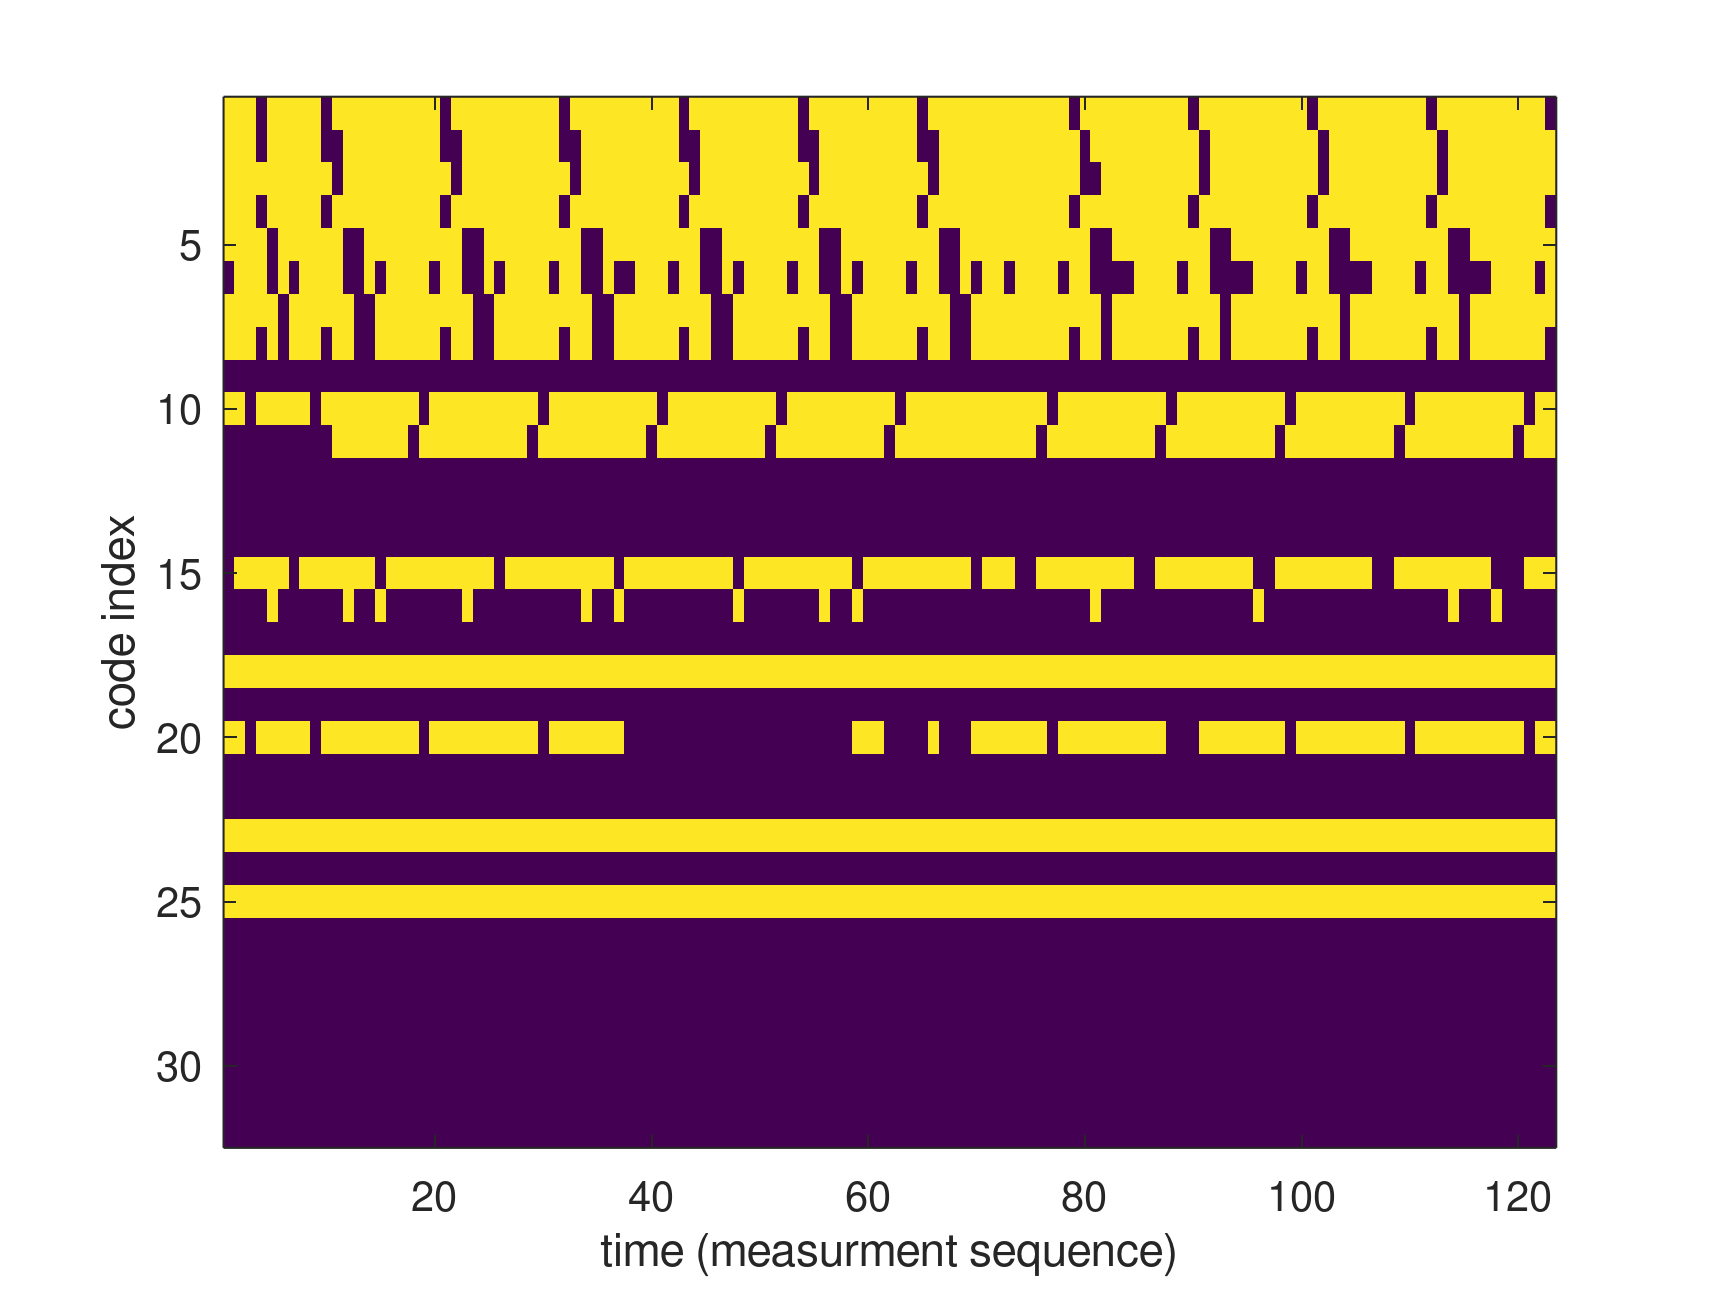
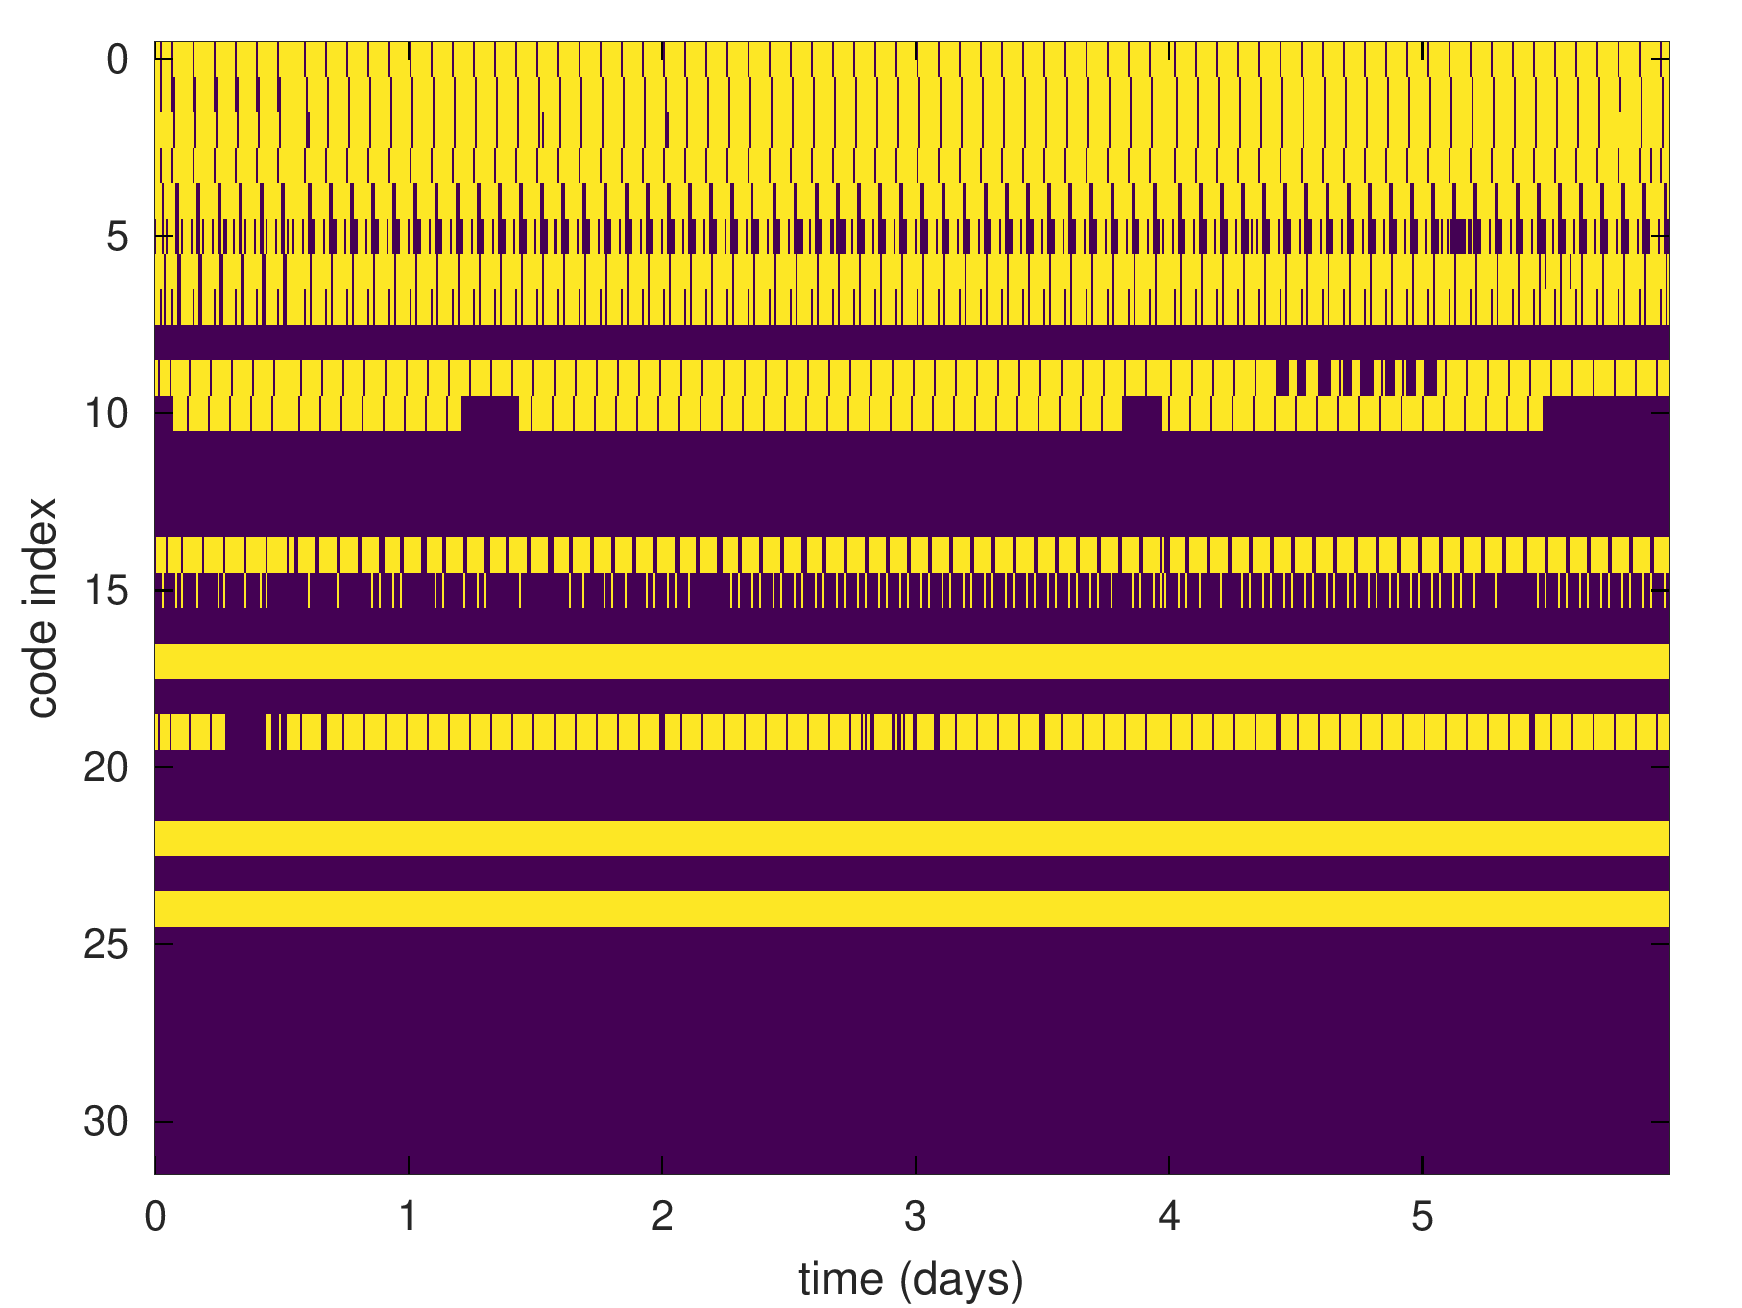
reorganize stations

diff --git a/one_way_analysis_TUDAT/search_peak.m b/one_way_analysis_TUDAT/search_peak.m
@@ -7,7 +7,7 @@ format long
 fs=5e6;                                     % sampling rate
 fcode=2.5e6;                                % SATRE code rate
 Ncode=1e4;                                  % SATRE code length
-N=6e5*2                                     % chunk size (arbitrary)
+N=4e5*2                                     % chunk size (arbitrary)
 display_fig=0;
 Nint=1;                                     % interpolation by 2xN+1
 P=20                                        % number of stations searched
@@ -41,10 +41,10 @@ for l=1:length(dd)                          % loop through records
   poscnt=ones(size(taps)(1),1);
   fileindex=0;
   do
-    if (length(dold)<Nelems)
+    if (length(dold)<Nelems/(2*Nint+1))
        d=fread(f,2*N,'float');              % assume 32 bit complex float
     else
-       d=fread(f,2*N-2*2*Nelems,'float');   % assume 32 bit complex float
+       d=fread(f,2*N-2*2*Nelems/(2*Nint+1),'float');   % assume 32 bit complex float
     end
     d=[dold ; d(1:2:end)+j*d(2:2:end)];
     if (length(d)==N)
@@ -104,7 +104,9 @@ for l=1:length(dd)                          % loop through records
             st=d.*exp(-j*2*pi*df(figpos)*t);
             sf=[zeros(Nint*N,1) ; fftshift(fft(st)).*hamming(length(d)) ; zeros(Nint*N,1)]; % interpolate
             sol=abs(ifft(fftshift(sf.*codef(:,m)))); % codef is already conj(fft)
-            [station,poscnt,position]=search_peaks(Nelems,sol,station,position,poscnt,fileindex,Nint,m,N);
+	    if (poscnt(m)<1240)
+               [station,poscnt,position]=search_peaks(Nelems,sol,station,position,poscnt,fileindex,Nint,m,N);
+	    end
           end
 	end
         figpos=figpos+1;
@@ -114,8 +116,11 @@ for l=1:length(dd)                          % loop through records
 	df(figpos:end)=999;
       end
       fileindex=fileindex+1;                % position within the file
-      dold=d(end-2*Nelems+1:end);
+      dold=d(end-2*Nelems/(2*Nint+1)+1:end);% keep last items (@ fs)
     end
+       length(d)
+    length(position)
   until (length(d)<N)
 end
-save -mat all.mat position station ressave dfstation df
+save -mat all.mat position station dfstation df
+% remove ressave to save space

diff --git a/one_way_analysis_TUDAT/analyze_peak.m b/one_way_analysis_TUDAT/analyze_peak.m
@@ -1,5 +1,5 @@
-d=dir('1*mat');
-nam={"OP01","NPL01","VSL01","SP01","PTB05","OCA01","IT02","ROA01","cor. code 11","CH01","IPQ01","AOS01","PTF101","PTF201","TIM01","LTFB01","OP02","IT01","ROA02","UME01","","","","","PTB01"}
+d=dir('1*mat.gz');
+nam={"OP01","NPL01","VSL01","SP01","PTB05","OCA01","IT02","ROA01","cor. code 11","CH01","IPQ01","AOS01","PTF101","PTF201","TIM01","LTFB01","OP02","IT01","ROA02","UME01","","","","","PTB01"};
 fs=5e6;
 Nint=1;
 present=[];
@@ -7,9 +7,12 @@ solm=[];
 sols=[];
 for l=1:length(d)
   eval(['load ',d(l).name]);
+  if (length(position)>1334)
+     position=position(1:1334,:);
+  end
   ladate(l)=str2num(d(l).name(1:10));
   present(:,l)=station(1:32);
-  sstmp=(position-position(:,3))/fs/(2*Nint+1)*1e9;
+  sstmp=(position-position(:,18))/fs/(2*Nint+1)*1e9;  % IT01 as reference
   for m=1:size(sstmp)(2)
      k=find(abs(sstmp(:,m)-median(sstmp(:,m)))<50);
      solm(m,l)=mean(sstmp(k,m));
@@ -17,16 +20,23 @@ for l=1:length(d)
   end
 end
 solm=(mod(solm,4e6)');
+k=find(solm>2e6);
+solm(k)=solm(k)-4e6;
 ladate=ladate-ladate(1);
 for k=1:size(solm)(2)
   errorbar(ladate/3600,solm(:,k)-solm(1,k),sols(k,:)/sqrt(250));
   hold on
 end
 xlabel('time (h)')
-ylabel('delay difference wrt VSL (ns)')
-ylim([-5000 1000])
+ylabel('delay difference wrt IT01 (ns)')
+ylim([-4000 3000])
 xlim([0 (max(ladate)/3600+1)])
 legend("OP01","NPL01","VSL01","SP01","PTB05","OCA01","IT02","ROA01","cor. code 11","CH01","IPQ01","AOS01","PTF101","PTF201","TIM01","LTFB01","OP02","IT01","ROA02","UME01","NA","NA","NA","NA","PTB01",'location','eastoutside');
+print -dpng -r300 delaydiff_vs_time.png
 
 figure
 imagesc(present,[0 1])
+imagesc([0:size(present)(2)-1]/11/12,[0:size(present)(1)-1],present,[0 1])
+xlabel('time (days)')
+ylabel('code index')
+print -dpng -r300 visibility.png

diff --git a/one_way_analysis_TUDAT/README.md b/one_way_analysis_TUDAT/README.md
@@ -12,14 +12,20 @@ Emitter locations (according to https://webtai.bipm.org/ftp/pub/tai/data/2025/ti
 Name  | latitude      | longitude      | alti |code|
 ------|---------------|----------------|------|--|
 OP01  | 48.83589889   |  2.33496472    | 78.00|0 |
-ROA01 | 36.46431389   | -6.20620361    | 74.67|7 |
-SP01  | 57.71527778   | 12.89083333    |225.00|3 |
-IT01  | 45.01499639   |  7.63907944    |306.64|17|
+NPL01 | ?             |  ?             | ?    |1 |
 VSL01 | 51.98550556   |  4.38804167    | 76.80|2 |
-CH01  | 46.92371833   |  7.46416722    |612.82|9 |
-NPL02 | 51.42577778   | -0.34352778    | 68.00|? |
+SP01  | 57.71527778   | 12.89083333    |225.00|3 |
 PTB05 | 52.29716306   | 10.46054611    |143.41|4 |
+OCA01 | ?             | ?              |  ?   |5 |
+IT02  | ?             | ?              |  ?   |6 |
+ROA01 | 36.46431389   | -6.20620361    | 74.67|7 |
+CH01  | 46.92371833   |  7.46416722    |612.82|9 |
+IPQ01 | ?             | ?              |  ?   |10|
+LTFB01| 47.25129222   |  5.99345000    |358.793|15|
+IT01  | 45.01499639   |  7.63907944    |306.64|17|
+NPL02 | 51.42577778   | -0.34352778    | 68.00|? |
 UME01 | 40.78430556   | 29.44695556    |229.17|19|
+PTB01 | ?             | ?              | ?    |24|
 
 # Processing steps
 
